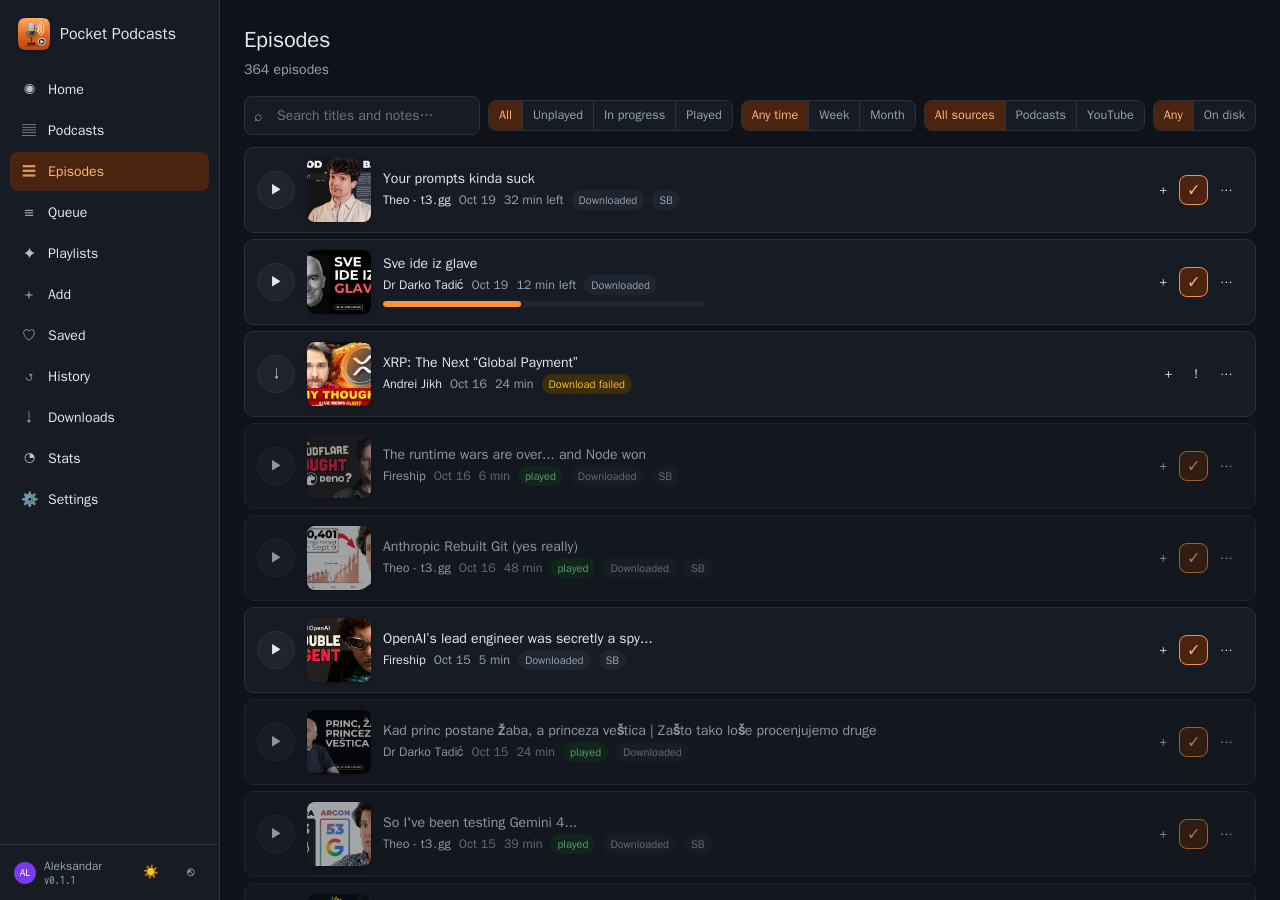
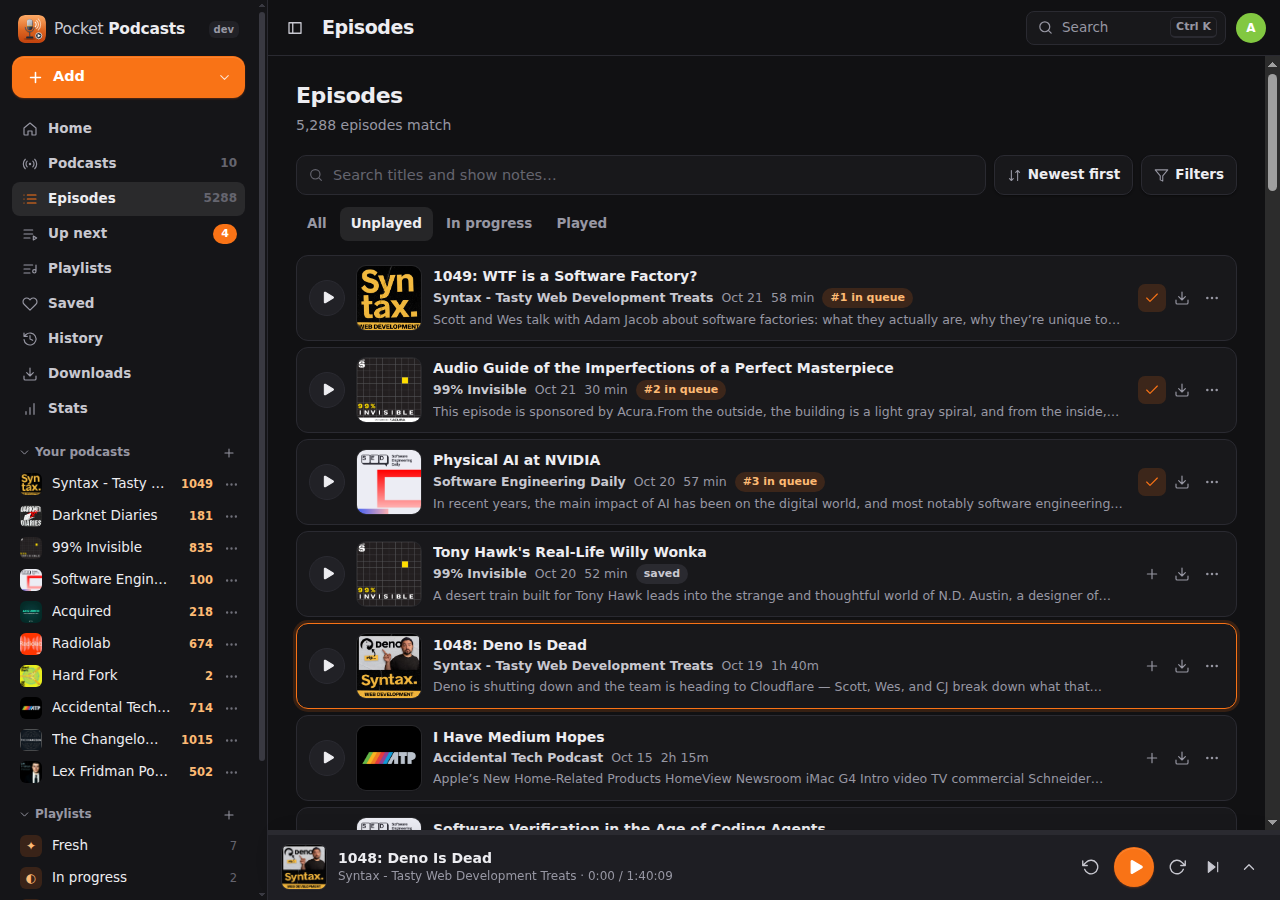
README: screenshots of the new design

diff --git a/README.md b/README.md
@@ -12,8 +12,8 @@ It replaces PinePods for people who want the same ideas with less machinery: no 
 
 <table>
   <tr>
-    <td width="50%"><img src="docs/screenshots/podcast.png" alt="A YouTube channel as a podcast: episodes with download state, SponsorBlock badges, per-show settings"></td>
-    <td width="50%"><img src="docs/screenshots/player.png" alt="The player: artwork, SponsorBlock on, speed, sleep timer, chapters"></td>
+    <td width="50%"><img src="docs/screenshots/podcast.png" alt="A podcast: its episodes with progress, queue and download state, per-show settings"></td>
+    <td width="50%"><img src="docs/screenshots/player.png" alt="The player: artwork, chapters and notes, skip, speed, sleep timer"></td>
   </tr>
   <tr>
     <td width="50%"><img src="docs/screenshots/add.png" alt="Adding: directory search with Follow or Episodes per result"></td>
